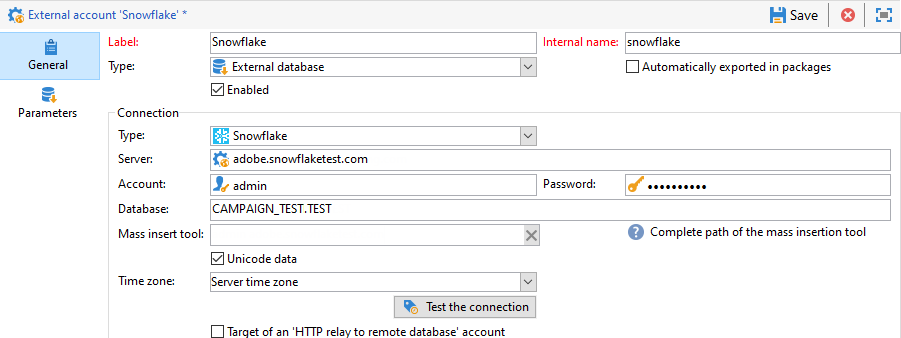
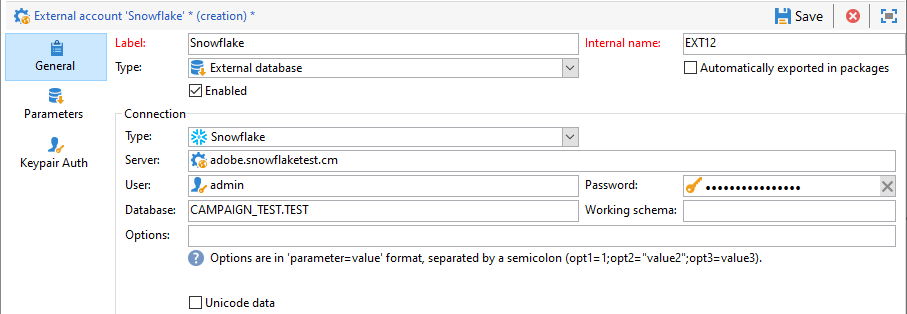
Update

Changed region(s): [[0.0, 0.0, 1.0, 1.0], [0.2175, 0.9459, 0.5594, 1.0]]

diff --git a/help/installation/using/configure-fda-snowflake.md b/help/installation/using/configure-fda-snowflake.md
@@ -76,27 +76,35 @@ You need to create a [!DNL Snowflake] external account to connect your Campaign 
 
 1. Select **[!UICONTROL External database]** as your external account's **[!UICONTROL Type]**.
 
-1. Configure the **[!UICONTROL Snowflake]** external account, you must specify:
+1. Under **[!UICONTROL Configuration]**, select [!DNL Snowflake] from the **[!UICONTROL Type]** drop-down.
 
-    * **[!UICONTROL Type]**: [!DNL Snowflake]
+    ![](assets/snowflake_5.png)
 
-    * **[!UICONTROL Server]**: URL of the [!DNL Snowflake] server
+1. Add your **[!UICONTROL Server]** URL and **[!UICONTROL Database]**.
 
-    * **[!UICONTROL Account]**: Name of the user
+1. Configure the **[!UICONTROL Snowflake]** external account authentication:
 
-    * **[!UICONTROL Password]**: User account password. You can also choose the **Keypair Authentication** which allow you to connect using your **[!UICONTROL Private key]**. For more on this, refer to the step 6.
+    * For Account/password authentication, you must specify:
 
-    * **[!UICONTROL Database]**: Name of the database
+        * **[!UICONTROL Account]**: Name of the user
 
-    ![](assets/snowflake.png)
+        * **[!UICONTROL Password]**: User account password.
+
+        ![](assets/snowflake.png)
+
+    * For Keypair authentication, click the **[!UICONTROL Keypair Auth]** tab to use your **[!UICONTROL Private key]** to authenticate and copy paste your **[!UICONTROL Private key]**.
+        
+        ![](assets/snowflake_4.png)
 
 1. Click the **[!UICONTROL Parameters]** tab then the **[!UICONTROL Deploy functions]** button to create functions.
 
+    >[!NOTE]
+    >
+    >For all functions to be available, you need to create the Adobe Campaign SQL functions in the remote database. For more information, refer to this [page](../../configuration/using/adding-additional-sql-functions.md).
+
     ![](assets/snowflake_2.png)
 
-1. Click the **[!UICONTROL Keypair Auth]** tab to use your **[!UICONTROL Private key]** to authenticate. Copy paste your **[!UICONTROL Private key]** and click **[!UICONTROL Save]**.
-
-    ![](assets/snowflake_4.png)
+1. Click **[!UICONTROL Save]** when your configuration is finished.
 
 The connector supports the following options:
 
